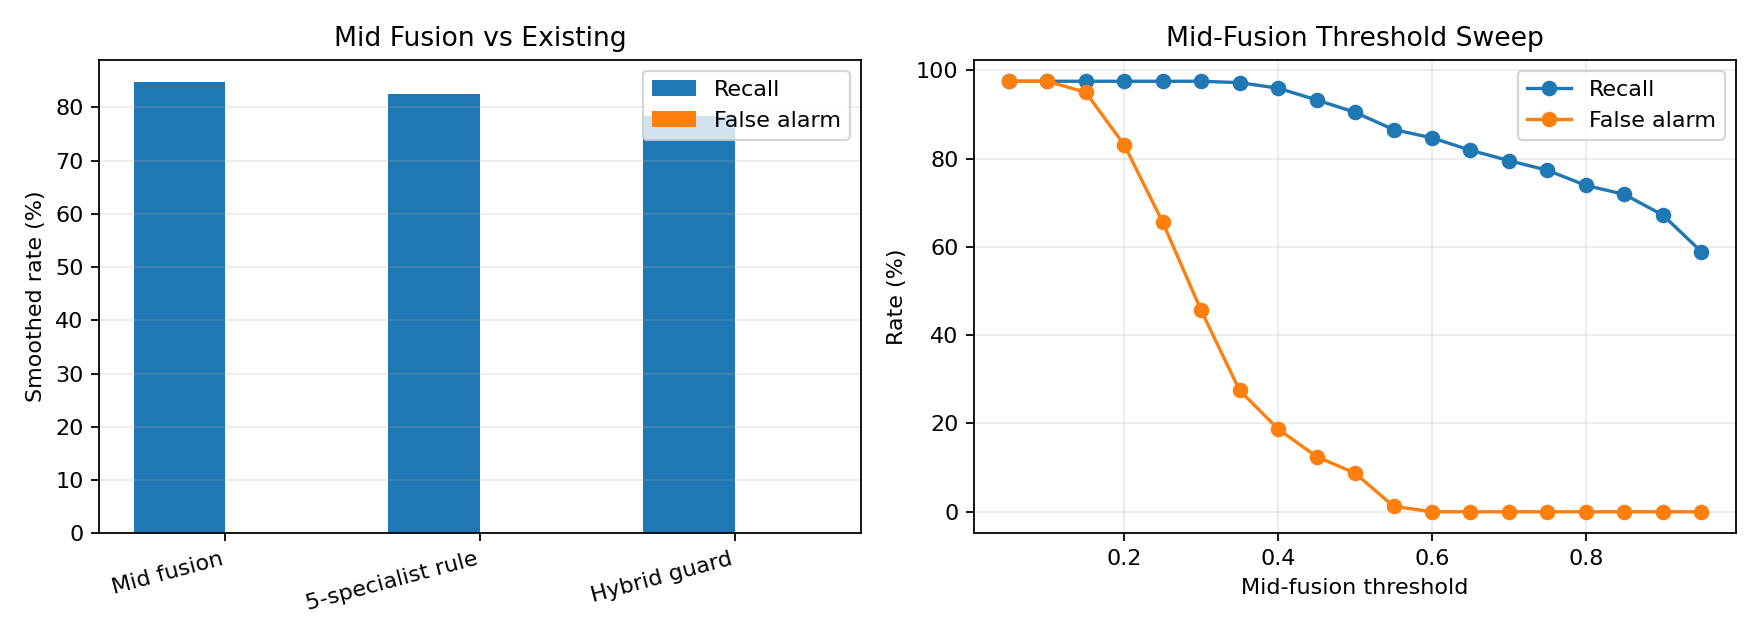
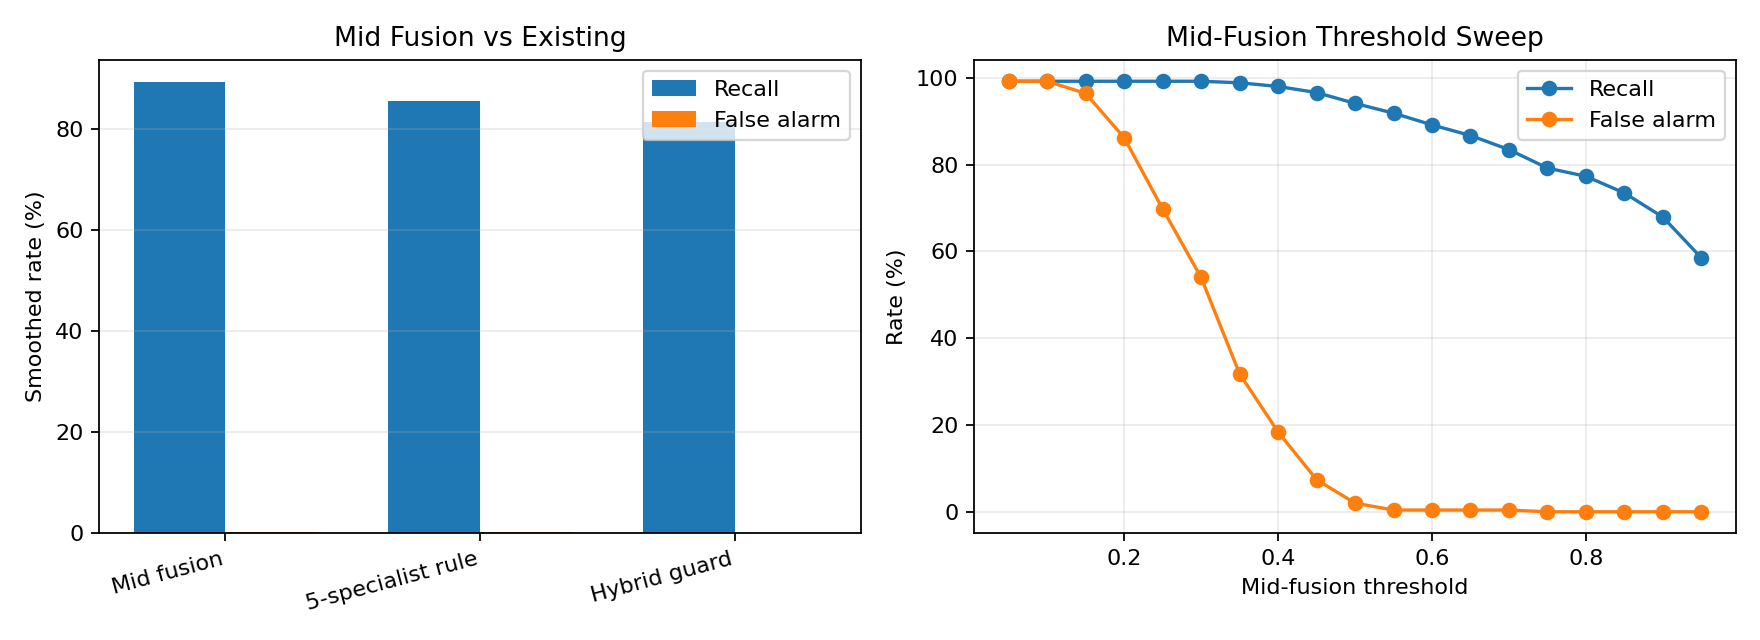
Add detailed mid-fusion benchmark stats

diff --git a/code/src/phase3_mid_fusion/benchmark_mid_fusion.py b/code/src/phase3_mid_fusion/benchmark_mid_fusion.py
@@ -5,7 +5,7 @@ import csv
 import random
 import sys
 import time
-from collections import deque
+from collections import defaultdict, deque
 from pathlib import Path
 
 import matplotlib.pyplot as plt
@@ -63,7 +63,18 @@ def build_pools(args, preproc):
     return drone_pool, fsd_pool, nodrone_pool
 
 
-def sample_condition(condition, pools, preproc, rng):
+def build_category_pools(args, preproc):
+    pools = {}
+    per_label = min(args.max_fsd_clips_per_label, args.category_max_clips_per_label)
+    for idx, label in enumerate(FSD_LABELS):
+        try:
+            pools[label] = FSD50KWindowPool(FSD50K_CANDIDATES_CSV, preproc, [label], per_label, args.seed + 1000 + idx)
+        except FileNotFoundError:
+            print(f"Warning: no clips found for FSD label {label}")
+    return pools
+
+
+def sample_condition(condition, pools, preproc, rng, category_pools=None):
     drone_pool, fsd_pool, nodrone_pool = pools
     if condition == "drone_alone":
         return drone_pool.sample_window(rng)
@@ -76,6 +87,11 @@ def sample_condition(condition, pools, preproc, rng):
         return fsd_pool.sample_window(rng)
     if condition == "dads_no_drone_alone":
         return nodrone_pool.sample_window(rng) if nodrone_pool else fsd_pool.sample_window(rng)
+    if condition.startswith("fsd_label__"):
+        label = condition.split("__", 1)[1]
+        if category_pools and label in category_pools:
+            return category_pools[label].sample_window(rng)
+        return fsd_pool.sample_window(rng)
     raise ValueError(condition)
 
 
@@ -104,6 +120,19 @@ def summarize(rows, system, condition, target_positive, detected_key="smoothed_d
         "smoothed_detection_rate_percent": 100.0 * det / max(len(sub), 1),
         "mean_score": float(np.mean([r["score"] for r in sub])) if sub else 0.0,
     }
+
+
+def cuda_sync(device):
+    if getattr(device, "type", "") == "cuda":
+        torch.cuda.synchronize(device)
+
+
+def timed_call(device, fn, *args, **kwargs):
+    cuda_sync(device)
+    t0 = time.perf_counter()
+    out = fn(*args, **kwargs)
+    cuda_sync(device)
+    return out, (time.perf_counter() - t0) * 1000.0
 
 
 @torch.no_grad()
@@ -151,6 +180,47 @@ def threshold_sweep(rows, conditions):
     return sweep
 
 
+def latency_summary(latency_rows):
+    rows = []
+    by_system = defaultdict(list)
+    for row in latency_rows:
+        by_system[row["system"]].append(float(row["latency_ms"]))
+    for system, vals in by_system.items():
+        arr = np.asarray(vals, dtype=np.float32)
+        rows.append({
+            "system": system,
+            "samples": int(arr.size),
+            "mean_ms_per_1s_window": float(arr.mean()) if arr.size else 0.0,
+            "median_ms": float(np.median(arr)) if arr.size else 0.0,
+            "p90_ms": float(np.percentile(arr, 90)) if arr.size else 0.0,
+            "p95_ms": float(np.percentile(arr, 95)) if arr.size else 0.0,
+            "p99_ms": float(np.percentile(arr, 99)) if arr.size else 0.0,
+            "windows_per_second": float(1000.0 / arr.mean()) if arr.size and arr.mean() > 0 else 0.0,
+            "realtime_factor_for_1s_hop": float(1000.0 / arr.mean()) if arr.size and arr.mean() > 0 else 0.0,
+            "realtime_factor_for_0p5s_hop": float(500.0 / arr.mean()) if arr.size and arr.mean() > 0 else 0.0,
+        })
+    return rows
+
+
+def false_alarm_by_category(rows):
+    out = []
+    for system in sorted({r["system"] for r in rows}):
+        neg_conditions = sorted({r["condition"] for r in rows if r["system"] == system and int(r["target_positive"]) == 0})
+        for condition in neg_conditions:
+            sub = [r for r in rows if r["system"] == system and r["condition"] == condition]
+            false_alarms = sum(int(r["smoothed_detected"]) for r in sub)
+            out.append({
+                "system": system,
+                "category": condition.replace("fsd_label__", ""),
+                "windows": len(sub),
+                "false_alarm_count": int(false_alarms),
+                "false_alarm_rate_percent": 100.0 * false_alarms / max(len(sub), 1),
+                "mean_score": float(np.mean([r["score"] for r in sub])) if sub else 0.0,
+                "max_score": float(np.max([r["score"] for r in sub])) if sub else 0.0,
+            })
+    return out
+
+
 def plot_summary(summary_rows, sweep_rows, out_path: Path):
     systems = ["mid_fusion", "specialists_only", "phase3_hybrid"]
     overall = [r for r in summary_rows if r["condition"] == "overall"]
@@ -186,7 +256,10 @@ def parse_args():
     ap.add_argument("--phase2", type=Path, default=PHASE2_GUARD_PATH)
     ap.add_argument("--backbone", type=Path, default=PHASE2_BACKBONE_PATH)
     ap.add_argument("--windows-per-condition", type=int, default=250)
+    ap.add_argument("--category-windows", type=int, default=120)
+    ap.add_argument("--category-max-clips-per-label", type=int, default=160)
     ap.add_argument("--threshold", type=float, default=0.50)
+    ap.add_argument("--no-category-breakdown", action="store_true")
     ap.add_argument("--quick", action="store_true")
     ap.add_argument("--seed", type=int, default=6363)
     ap.add_argument("--no-gpu", action="store_true")
@@ -200,6 +273,7 @@ def main():
     args = parse_args()
     if args.quick:
         args.windows_per_condition = min(args.windows_per_condition, 80)
+        args.category_windows = min(args.category_windows, 35)
         args.max_drone_files = min(args.max_drone_files, 1200)
         args.max_nodrone_files = min(args.max_nodrone_files, 800)
         args.max_fsd_clips_per_label = min(args.max_fsd_clips_per_label, 35)
@@ -211,6 +285,7 @@ def main():
     device = torch.device("cuda" if torch.cuda.is_available() and not args.no_gpu else "cpu")
     preproc = AudioPreprocessor(16000)
     pools = build_pools(args, preproc)
+    category_pools = {} if args.no_category_breakdown else build_category_pools(args, preproc)
     specialists = load_specialist_bundle(args.specialists, device)
     guard = load_phase2_guard(args.phase2, args.backbone, device)
     mid_model, _ = load_mid_fusion(args.mid_model, specialists, device)
@@ -219,29 +294,41 @@ def main():
     conditions = [("drone_alone", True)]
     conditions.extend((f"drone_plus_fsd_snr_{snr:+d}db", True) for snr in SNR_LEVELS)
     conditions.extend([("fsd_real_noise_alone", False), ("dads_no_drone_alone", False)])
+    category_conditions = [(f"fsd_label__{label}", False) for label in FSD_LABELS if label in category_pools]
     systems = ["mid_fusion", "specialists_only", "phase3_hybrid"]
     smoothers = {system: TemporalSmoother(TEMPORAL_SMOOTHING) for system in systems}
     rows = []
+    latency_rows = []
     print("Phase 3 mid-fusion benchmark")
     print(f"Mid model  : {args.mid_model}")
     print(f"Device     : {device}")
     t0 = time.perf_counter()
-    for condition, target_positive in conditions:
+    eval_conditions = conditions + category_conditions
+    for condition, target_positive in eval_conditions:
         for system in systems:
             smoothers[system] = TemporalSmoother(TEMPORAL_SMOOTHING)
-        for wi in range(args.windows_per_condition):
-            audio = sample_condition(condition, pools, preproc, rng)
-            sp = predict_specialists(specialists, preproc, audio)
-            gd = predict_phase2_guard(guard, preproc, audio)
+        n_windows = args.category_windows if condition.startswith("fsd_label__") else args.windows_per_condition
+        for wi in range(n_windows):
+            audio = sample_condition(condition, pools, preproc, rng, category_pools)
+            sp, sp_ms = timed_call(device, predict_specialists, specialists, preproc, audio)
+            gd, gd_ms = timed_call(device, predict_phase2_guard, guard, preproc, audio)
+            hy_t0 = time.perf_counter()
             hy = fuse_phase3(sp, gd)
-            mid_score = predict_mid(mid_model, preproc, audio, device)
+            hy_ms = sp_ms + gd_ms + ((time.perf_counter() - hy_t0) * 1000.0)
+            mid_score, mid_ms = timed_call(device, predict_mid, mid_model, preproc, audio, device)
             values = {
-                "mid_fusion": (mid_score >= args.threshold, mid_score, f"mid_threshold_{args.threshold:.2f}"),
-                "specialists_only": (sp.candidate, sp.score, "specialist_rule"),
-                "phase3_hybrid": (hy.detected, hy.score, hy.reason),
+                "mid_fusion": (mid_score >= args.threshold, mid_score, f"mid_threshold_{args.threshold:.2f}", mid_ms),
+                "specialists_only": (sp.candidate, sp.score, "specialist_rule", sp_ms),
+                "phase3_hybrid": (hy.detected, hy.score, hy.reason, hy_ms),
             }
-            for system, (detected, score, reason) in values.items():
+            for system, (detected, score, reason, latency_ms) in values.items():
                 smoothed = smoothers[system].update(bool(detected))
+                latency_rows.append({
+                    "system": system,
+                    "condition": condition,
+                    "window_index": wi,
+                    "latency_ms": float(latency_ms),
+                })
                 rows.append({
                     "system": system,
                     "condition": condition,
@@ -251,6 +338,7 @@ def main():
                     "smoothed_detected": int(bool(smoothed)),
                     "score": float(score),
                     "reason": reason,
+                    "latency_ms": float(latency_ms),
                     "mid_score": float(mid_score),
                     "specialist_score": float(sp.score),
                     "specialist_filtered_max": float(sp.filtered_max),
@@ -260,12 +348,14 @@ def main():
                 })
 
     summary = []
-    for condition, target_positive in conditions:
+    for condition, target_positive in eval_conditions:
         for system in systems:
             summary.append(summarize(rows, system, condition, target_positive))
     for system in systems:
         pos = [r for r in rows if r["system"] == system and r["target_positive"] == 1]
         neg = [r for r in rows if r["system"] == system and r["target_positive"] == 0]
+        base_neg = [r for r in neg if not str(r["condition"]).startswith("fsd_label__")]
+        category_neg = [r for r in neg if str(r["condition"]).startswith("fsd_label__")]
         summary.append({
             "system": system,
             "condition": "overall",
@@ -273,18 +363,26 @@ def main():
             "windows": len(pos) + len(neg),
             "positive_recall_percent": 100.0 * sum(int(r["smoothed_detected"]) for r in pos) / max(len(pos), 1),
             "negative_false_alarm_percent": 100.0 * sum(int(r["smoothed_detected"]) for r in neg) / max(len(neg), 1),
+            "base_negative_false_alarm_percent": 100.0 * sum(int(r["smoothed_detected"]) for r in base_neg) / max(len(base_neg), 1),
+            "category_negative_false_alarm_percent": 100.0 * sum(int(r["smoothed_detected"]) for r in category_neg) / max(len(category_neg), 1),
             "mean_score": float(np.mean([r["score"] for r in pos + neg])) if pos or neg else 0.0,
         })
     sweep = threshold_sweep(rows, conditions)
+    lat_summary = latency_summary(latency_rows)
+    fa_rows = false_alarm_by_category(rows)
     tag = args.mid_model.stem.replace("drone_cnn_", "")
     if args.quick and not tag.endswith("_quick"):
         tag += "_quick"
     summary_path = RESULTS_DIR / f"benchmark_{tag}_summary.csv"
     debug_path = RESULTS_DIR / f"benchmark_{tag}_debug.csv"
     sweep_path = RESULTS_DIR / f"benchmark_{tag}_threshold_sweep.csv"
+    latency_path = RESULTS_DIR / f"benchmark_{tag}_latency.csv"
+    false_alarm_path = RESULTS_DIR / f"benchmark_{tag}_false_alarms_by_category.csv"
     write_csv(summary_path, summary)
     write_csv(debug_path, rows)
     write_csv(sweep_path, sweep)
+    write_csv(latency_path, lat_summary)
+    write_csv(false_alarm_path, fa_rows)
     graph_path = RESULTS_DIR / f"benchmark_{tag}.png"
     plot_summary(summary, sweep, graph_path)
     public_graph = Path(__file__).resolve().parents[3] / "results" / "graphs" / "mid_fusion_vs_existing.png"
@@ -294,10 +392,18 @@ def main():
     for row in summary:
         if row["condition"] == "overall":
             print(f"{row['system']:<18} recall={float(row['positive_recall_percent']):6.2f}% FAR={float(row['negative_false_alarm_percent']):6.2f}%")
+    print("\nLatency")
+    for row in lat_summary:
+        print(f"{row['system']:<18} mean={float(row['mean_ms_per_1s_window']):7.2f} ms p95={float(row['p95_ms']):7.2f} ms windows/s={float(row['windows_per_second']):5.2f}")
+    print("\nWorst false-alarm categories")
+    for row in sorted(fa_rows, key=lambda r: (r["system"], -float(r["false_alarm_count"]), -float(r["max_score"])))[:12]:
+        print(f"{row['system']:<18} {row['category']:<28} FA={int(row['false_alarm_count']):3d}/{int(row['windows'])} rate={float(row['false_alarm_rate_percent']):5.2f}% max={float(row['max_score']):.3f}")
     sweep_overall = [r for r in sweep if r["condition"] == "overall"]
     best = max(sweep_overall, key=lambda r: float(r["score_index"]))
     print(f"Best mid threshold by recall - 2*FAR: {float(best['threshold']):.2f} recall={float(best['positive_recall_percent']):.2f}% FAR={float(best['negative_false_alarm_percent']):.2f}%")
     print(f"Saved summary -> {summary_path}")
+    print(f"Saved latency -> {latency_path}")
+    print(f"Saved FA cats -> {false_alarm_path}")
     print(f"Saved graph   -> {graph_path}")
     print(f"Elapsed: {time.perf_counter() - t0:.1f}s")
     return 0